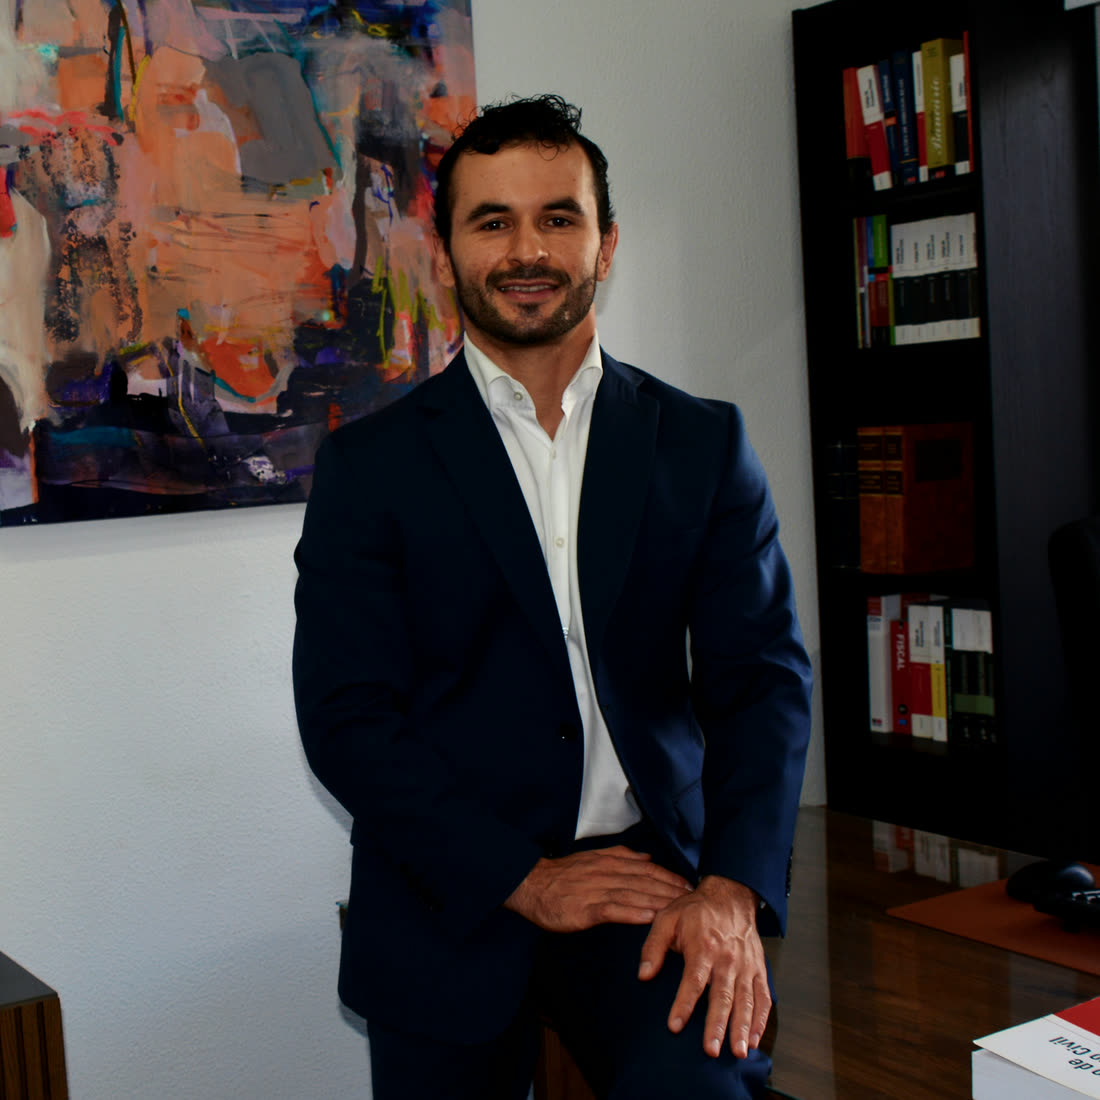
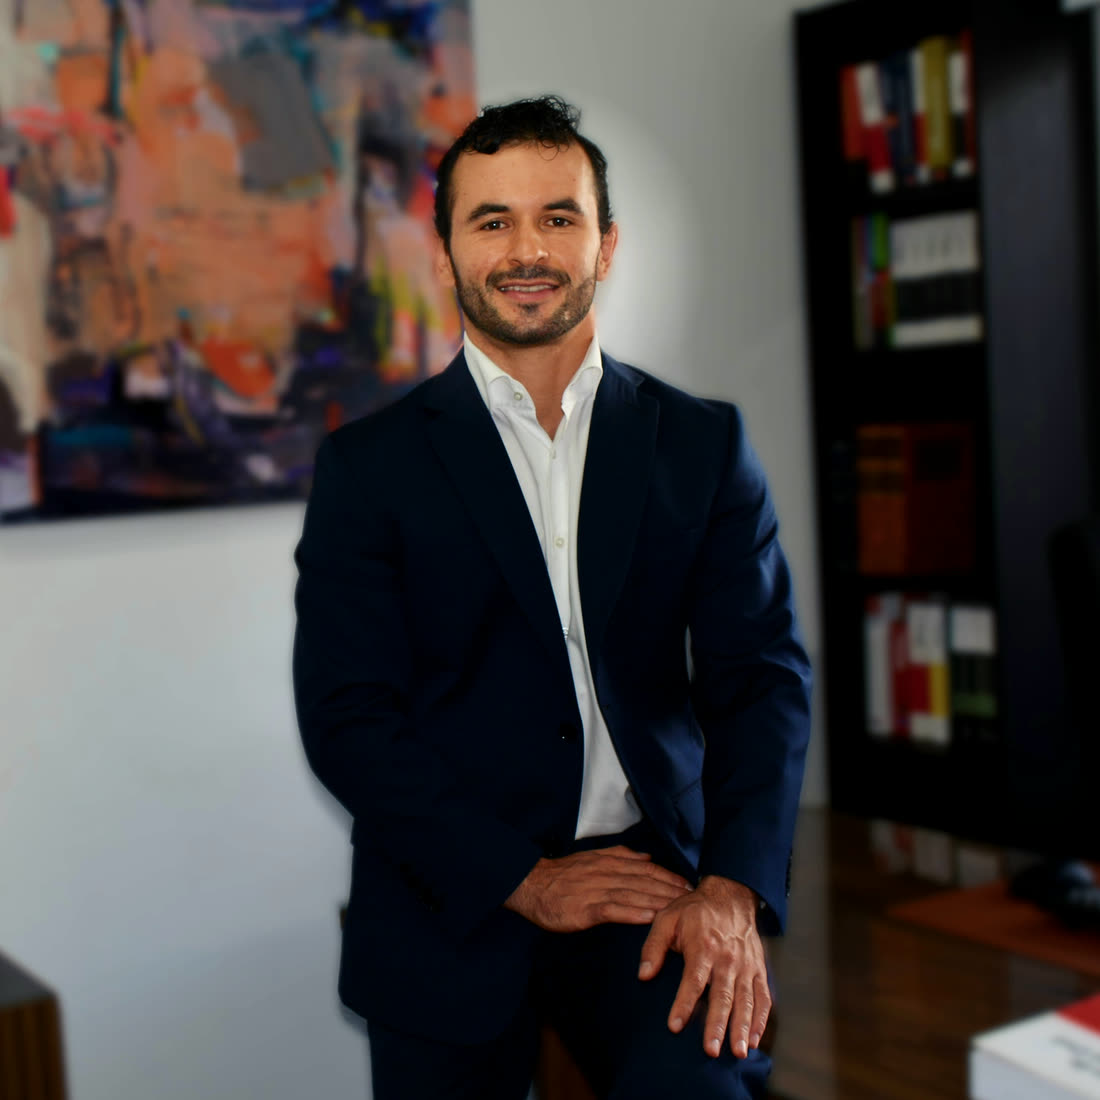
João: rosto mais claro e fundo levemente desfocado (Equipa e perfil)

diff --git a/equipa.html b/equipa.html
@@ -60,7 +60,7 @@
   <div class="hx-media fluted v4"></div>
 </section>
 <section class="light section">
-  <div class="wrap"><div class="team-grid"><a class="tcard" href="equipa-joao.html"><figure class="photo fluted has-photo"><img class="ph-img" src="assets/img/fotos/equipa-joao.jpg?v=2" alt="João Portas Fontes" loading="lazy" decoding="async" width="1100" height="1100"></figure><div class="tcard-b"><p class="role" data-i18n="team.role">Sócio fundador</p><h2>João Portas Fontes</h2><div class="chips" data-i18n="team.joao.chips"><span>Penal</span><span>Família</span><span>Migração</span><span>Civil</span></div><span class="tmore"><span data-i18n="team.view">Ver perfil</span><svg viewBox="0 0 16 16" fill="none" stroke="currentColor" stroke-width="1.5" aria-hidden="true"><path d="M5 11L11 5M6 5h5v5"/></svg></span></div></a><a class="tcard" href="equipa-diogo.html"><figure class="photo fluted has-photo"><img class="ph-img" src="assets/img/fotos/equipa-diogo.jpg?v=2" alt="Diogo Lopes Rodrigues" loading="lazy" decoding="async" width="1100" height="1100"></figure><div class="tcard-b"><p class="role" data-i18n="team.role">Sócio fundador</p><h2>Diogo Lopes Rodrigues</h2><div class="chips" data-i18n="team.diogo.chips"><span>Societário</span><span>Trabalho</span><span>Fiscal</span><span>Sucessões</span></div><span class="tmore"><span data-i18n="team.view">Ver perfil</span><svg viewBox="0 0 16 16" fill="none" stroke="currentColor" stroke-width="1.5" aria-hidden="true"><path d="M5 11L11 5M6 5h5v5"/></svg></span></div></a></div></div>
+  <div class="wrap"><div class="team-grid"><a class="tcard" href="equipa-joao.html"><figure class="photo fluted has-photo"><img class="ph-img" src="assets/img/fotos/equipa-joao.jpg?v=3" alt="João Portas Fontes" loading="lazy" decoding="async" width="1100" height="1100"></figure><div class="tcard-b"><p class="role" data-i18n="team.role">Sócio fundador</p><h2>João Portas Fontes</h2><div class="chips" data-i18n="team.joao.chips"><span>Penal</span><span>Família</span><span>Migração</span><span>Civil</span></div><span class="tmore"><span data-i18n="team.view">Ver perfil</span><svg viewBox="0 0 16 16" fill="none" stroke="currentColor" stroke-width="1.5" aria-hidden="true"><path d="M5 11L11 5M6 5h5v5"/></svg></span></div></a><a class="tcard" href="equipa-diogo.html"><figure class="photo fluted has-photo"><img class="ph-img" src="assets/img/fotos/equipa-diogo.jpg?v=2" alt="Diogo Lopes Rodrigues" loading="lazy" decoding="async" width="1100" height="1100"></figure><div class="tcard-b"><p class="role" data-i18n="team.role">Sócio fundador</p><h2>Diogo Lopes Rodrigues</h2><div class="chips" data-i18n="team.diogo.chips"><span>Societário</span><span>Trabalho</span><span>Fiscal</span><span>Sucessões</span></div><span class="tmore"><span data-i18n="team.view">Ver perfil</span><svg viewBox="0 0 16 16" fill="none" stroke="currentColor" stroke-width="1.5" aria-hidden="true"><path d="M5 11L11 5M6 5h5v5"/></svg></span></div></a></div></div>
 </section>
 </main>
 <footer class="foot">

diff --git a/equipa-joao.html b/equipa-joao.html
@@ -54,7 +54,7 @@
 <main>
 <section class="light section pf-page">
   <div class="wrap"><p class="hx-eye pf-crumb"><a href="index.html" data-i18n="nav.index">Início</a><span aria-hidden="true">/</span><a href="equipa.html" data-i18n="equipa.crumb">Equipa</a><span aria-hidden="true">/</span><span>João Portas Fontes</span></p><article class="profile" id="joao">
-      <figure class="photo fluted has-photo"><img class="ph-img" src="assets/img/fotos/perfil-joao.jpg?v=2" alt="João Portas Fontes" decoding="async" width="1000" height="1250"></figure>
+      <figure class="photo fluted has-photo"><img class="ph-img" src="assets/img/fotos/perfil-joao.jpg?v=3" alt="João Portas Fontes" decoding="async" width="1000" height="1250"></figure>
       <div>
         <p class="role" data-i18n="team.role">Sócio fundador</p>
         <h1>João Portas Fontes</h1>
